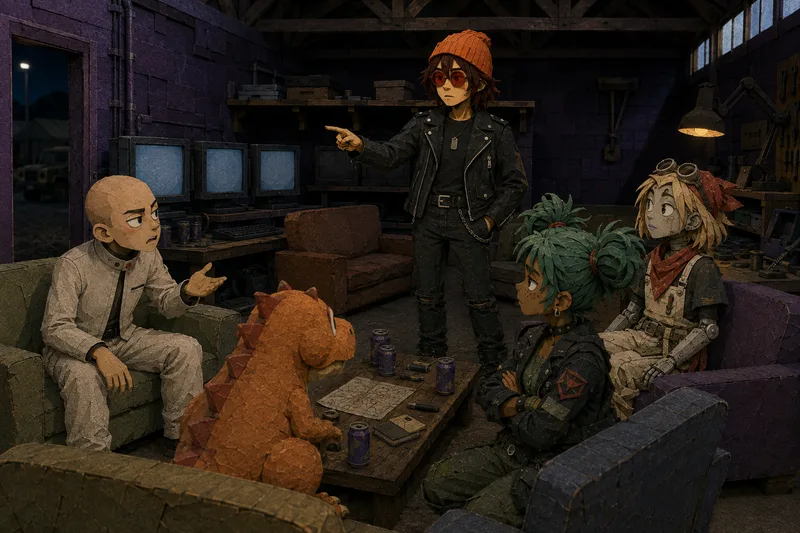
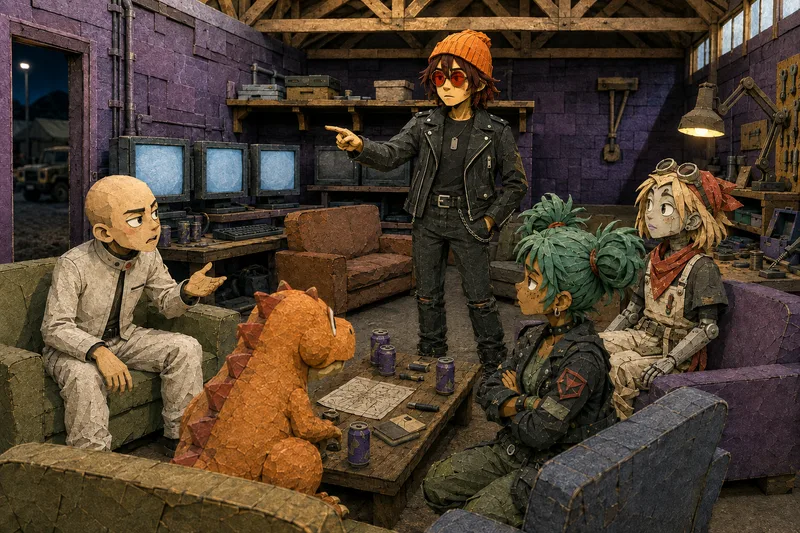
Complete Part Two: eleven of eleven
The dragon plate landed exactly as briefed and the night scene came back relit.

## u2-s05

Belly-up ACROSS the stripe of sun rather than along it, so the light catches the chest and belly while
the head at one end and the tail tip at the other lie out on cool grey concrete -- which is the whole
joke, an animal that has been chasing a rectangle round the floor all afternoon and is losing. Legs
flopped loose, mouth open, red spinal plates still readable from underneath, no wings. Bottle cap,
cropped couch foot, cropped table leg, and no wall or ceiling or window anywhere, so the picture still
makes no claim about the size of the room.

## u2-s09 relit, and it demonstrates the standing instruction

Same staging as the good version -- cropped couches at both lower corners, four figures at three
depths, the dragon large in the near foreground seen from behind and ignored -- but the picture is now
LIGHT. It still reads unmistakably as night, from the dark street and streetlight through the doorway
and the dusk in the high windows, rather than from letting the room go dim. The purple brick, the
timber trusses, the far wall, the workbench and every face are all clearly readable.

That is the difference the instruction was after: an interior at night lit as though somebody switched
the lights on, with the hour carried by what is outside the windows.

## State

122 images with current derivatives at 92 per cent saved, 465 derived files diffing clean against the
[…]

diff --git a/patch-notes/specs/UNDERSTUDIES_Vol2_Spec.md b/patch-notes/specs/UNDERSTUDIES_Vol2_Spec.md
@@ -410,6 +410,8 @@ Aspect ratio: 3:2
 
 Alt text: A small orange dragon lies flat on its back and fast asleep on a bare concrete floor, twisted slightly to keep its belly inside a narrow stripe of sunlight that is no longer wide enough to cover it.
 
+**Delivered 2026-08-03 and it holds everything.** Belly-up across the stripe rather than along it, so the light catches the chest and midsection while the head at one end and the tail tip at the other lie out on cool grey floor. Legs flopped loose, mouth open, red spinal plates still readable from underneath, no wings. The bottle cap, the cropped couch foot and the cropped table leg are all there, and no wall, ceiling or window appears anywhere — so the picture still makes no claim about the size of the room. Lit warm-against-cool exactly as asked.
+
 ---
 
 ## Spread 6
